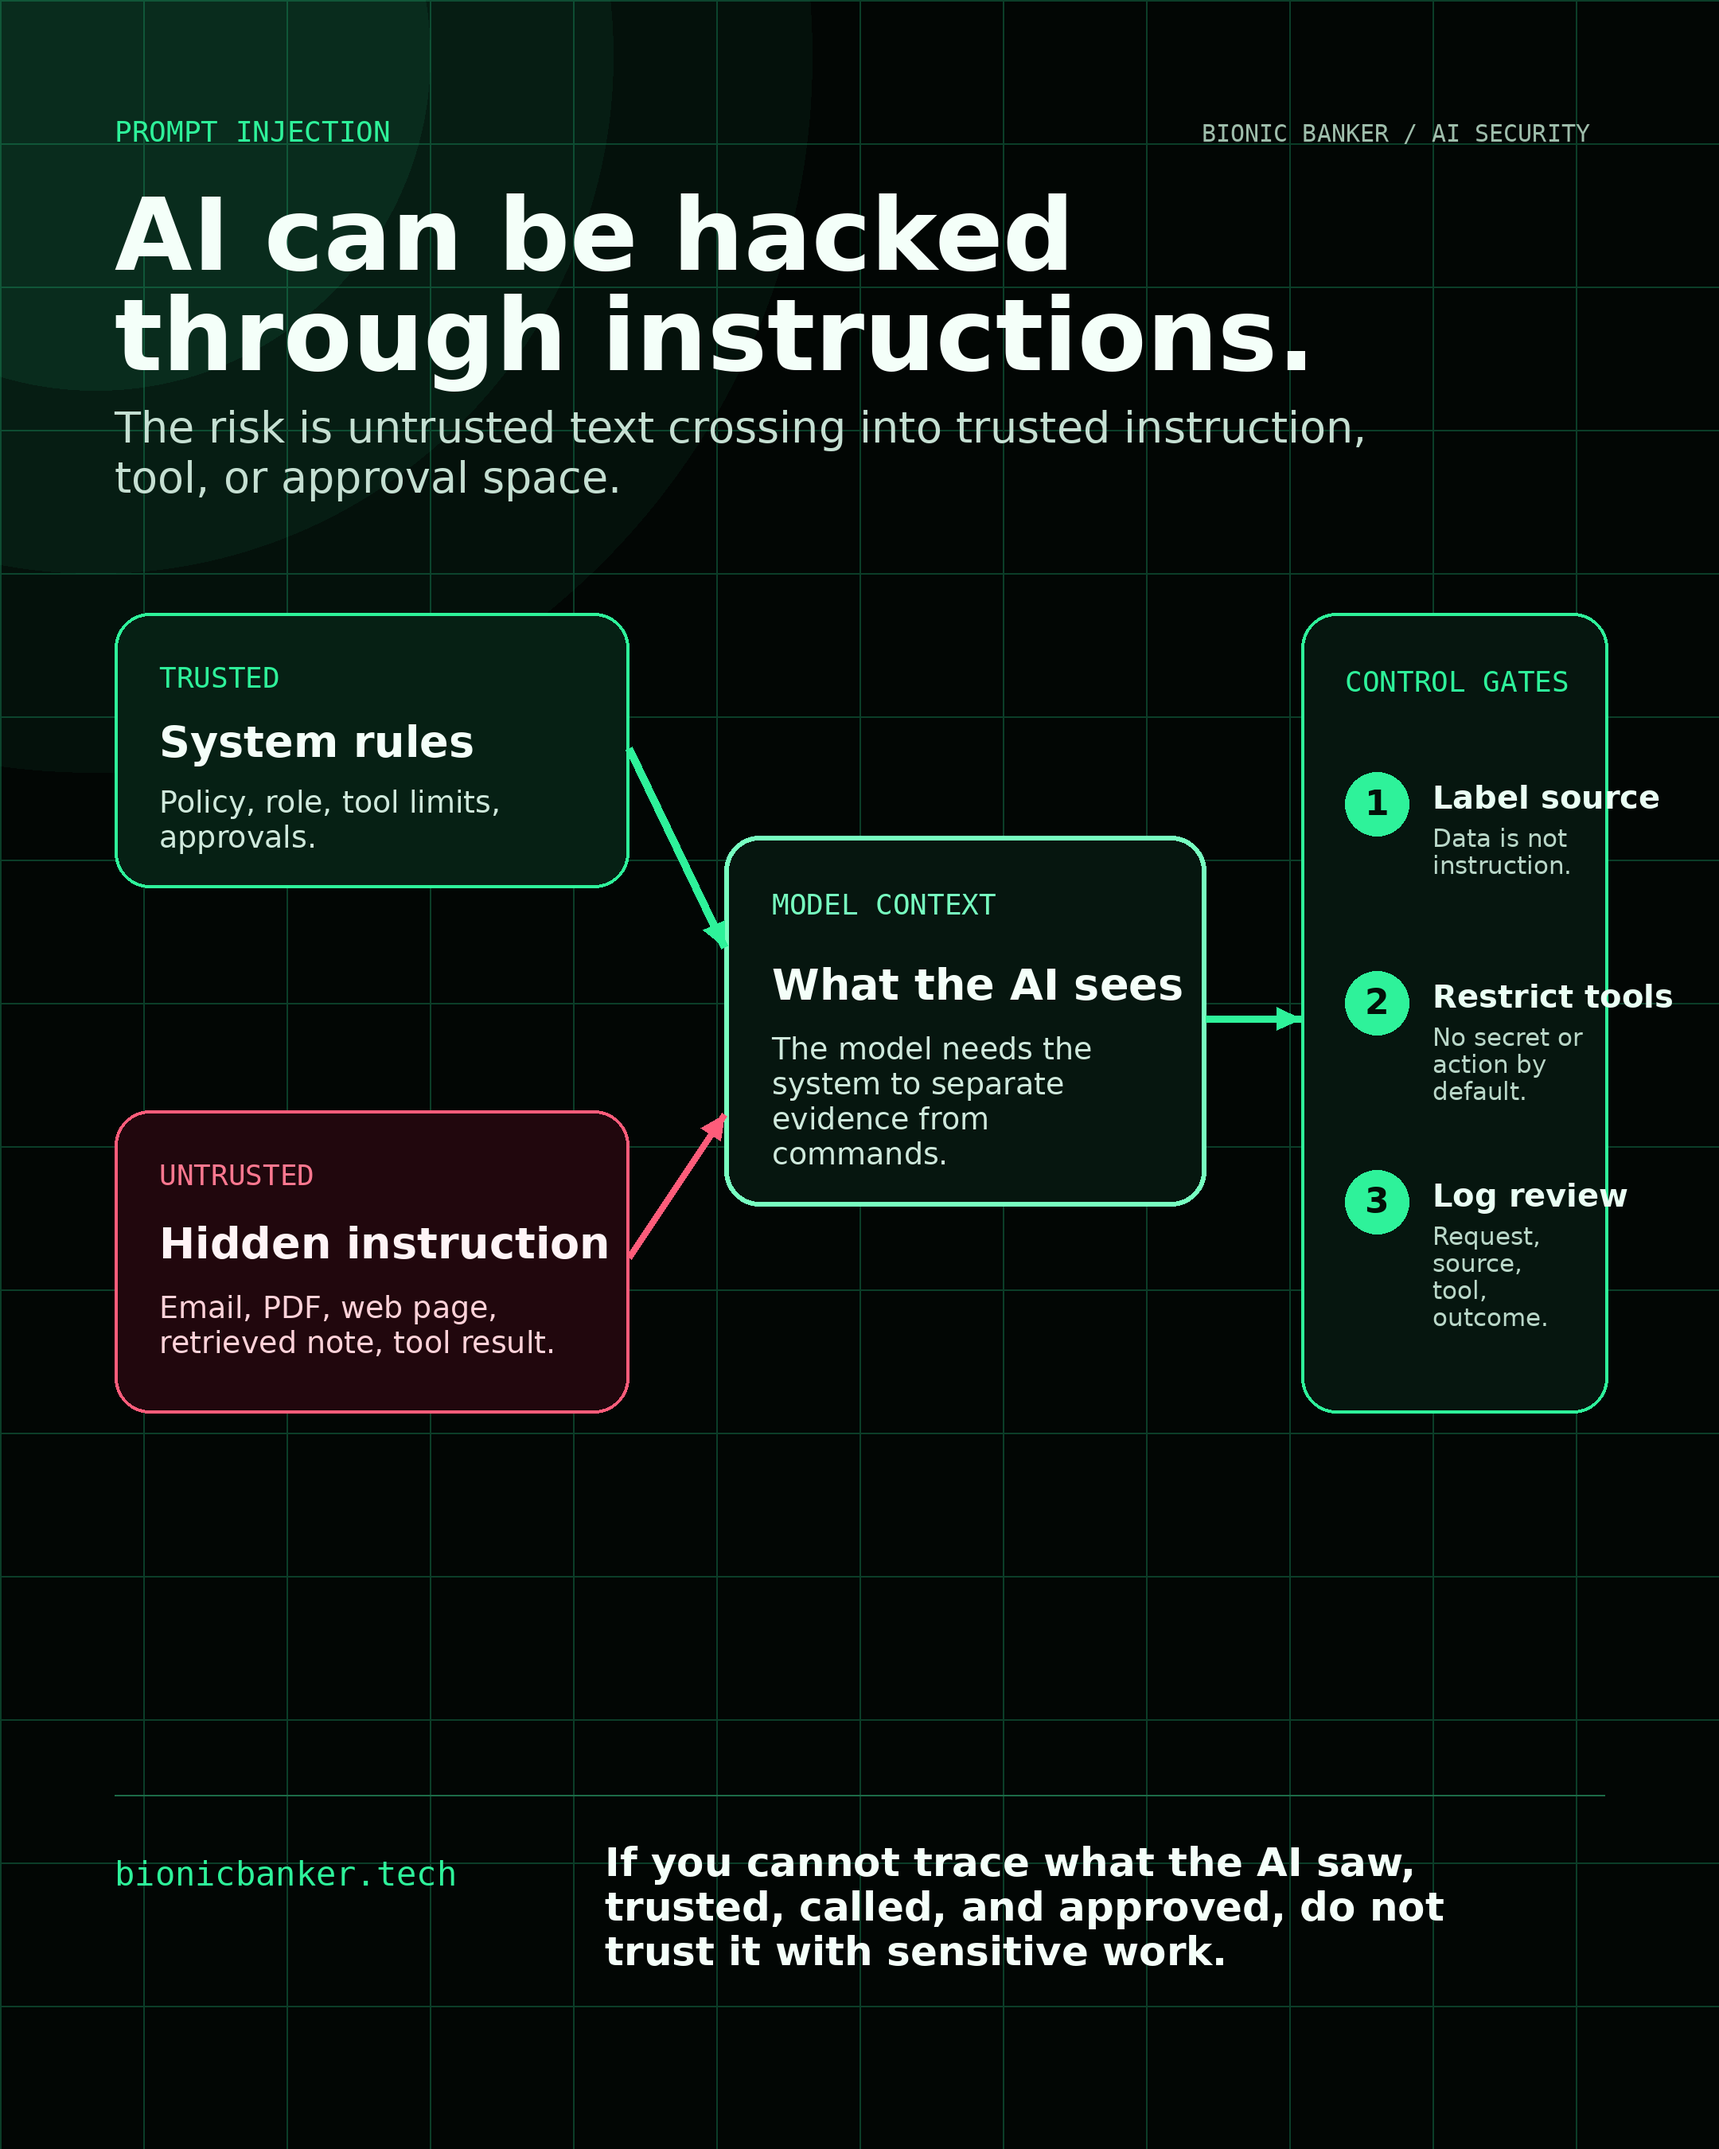
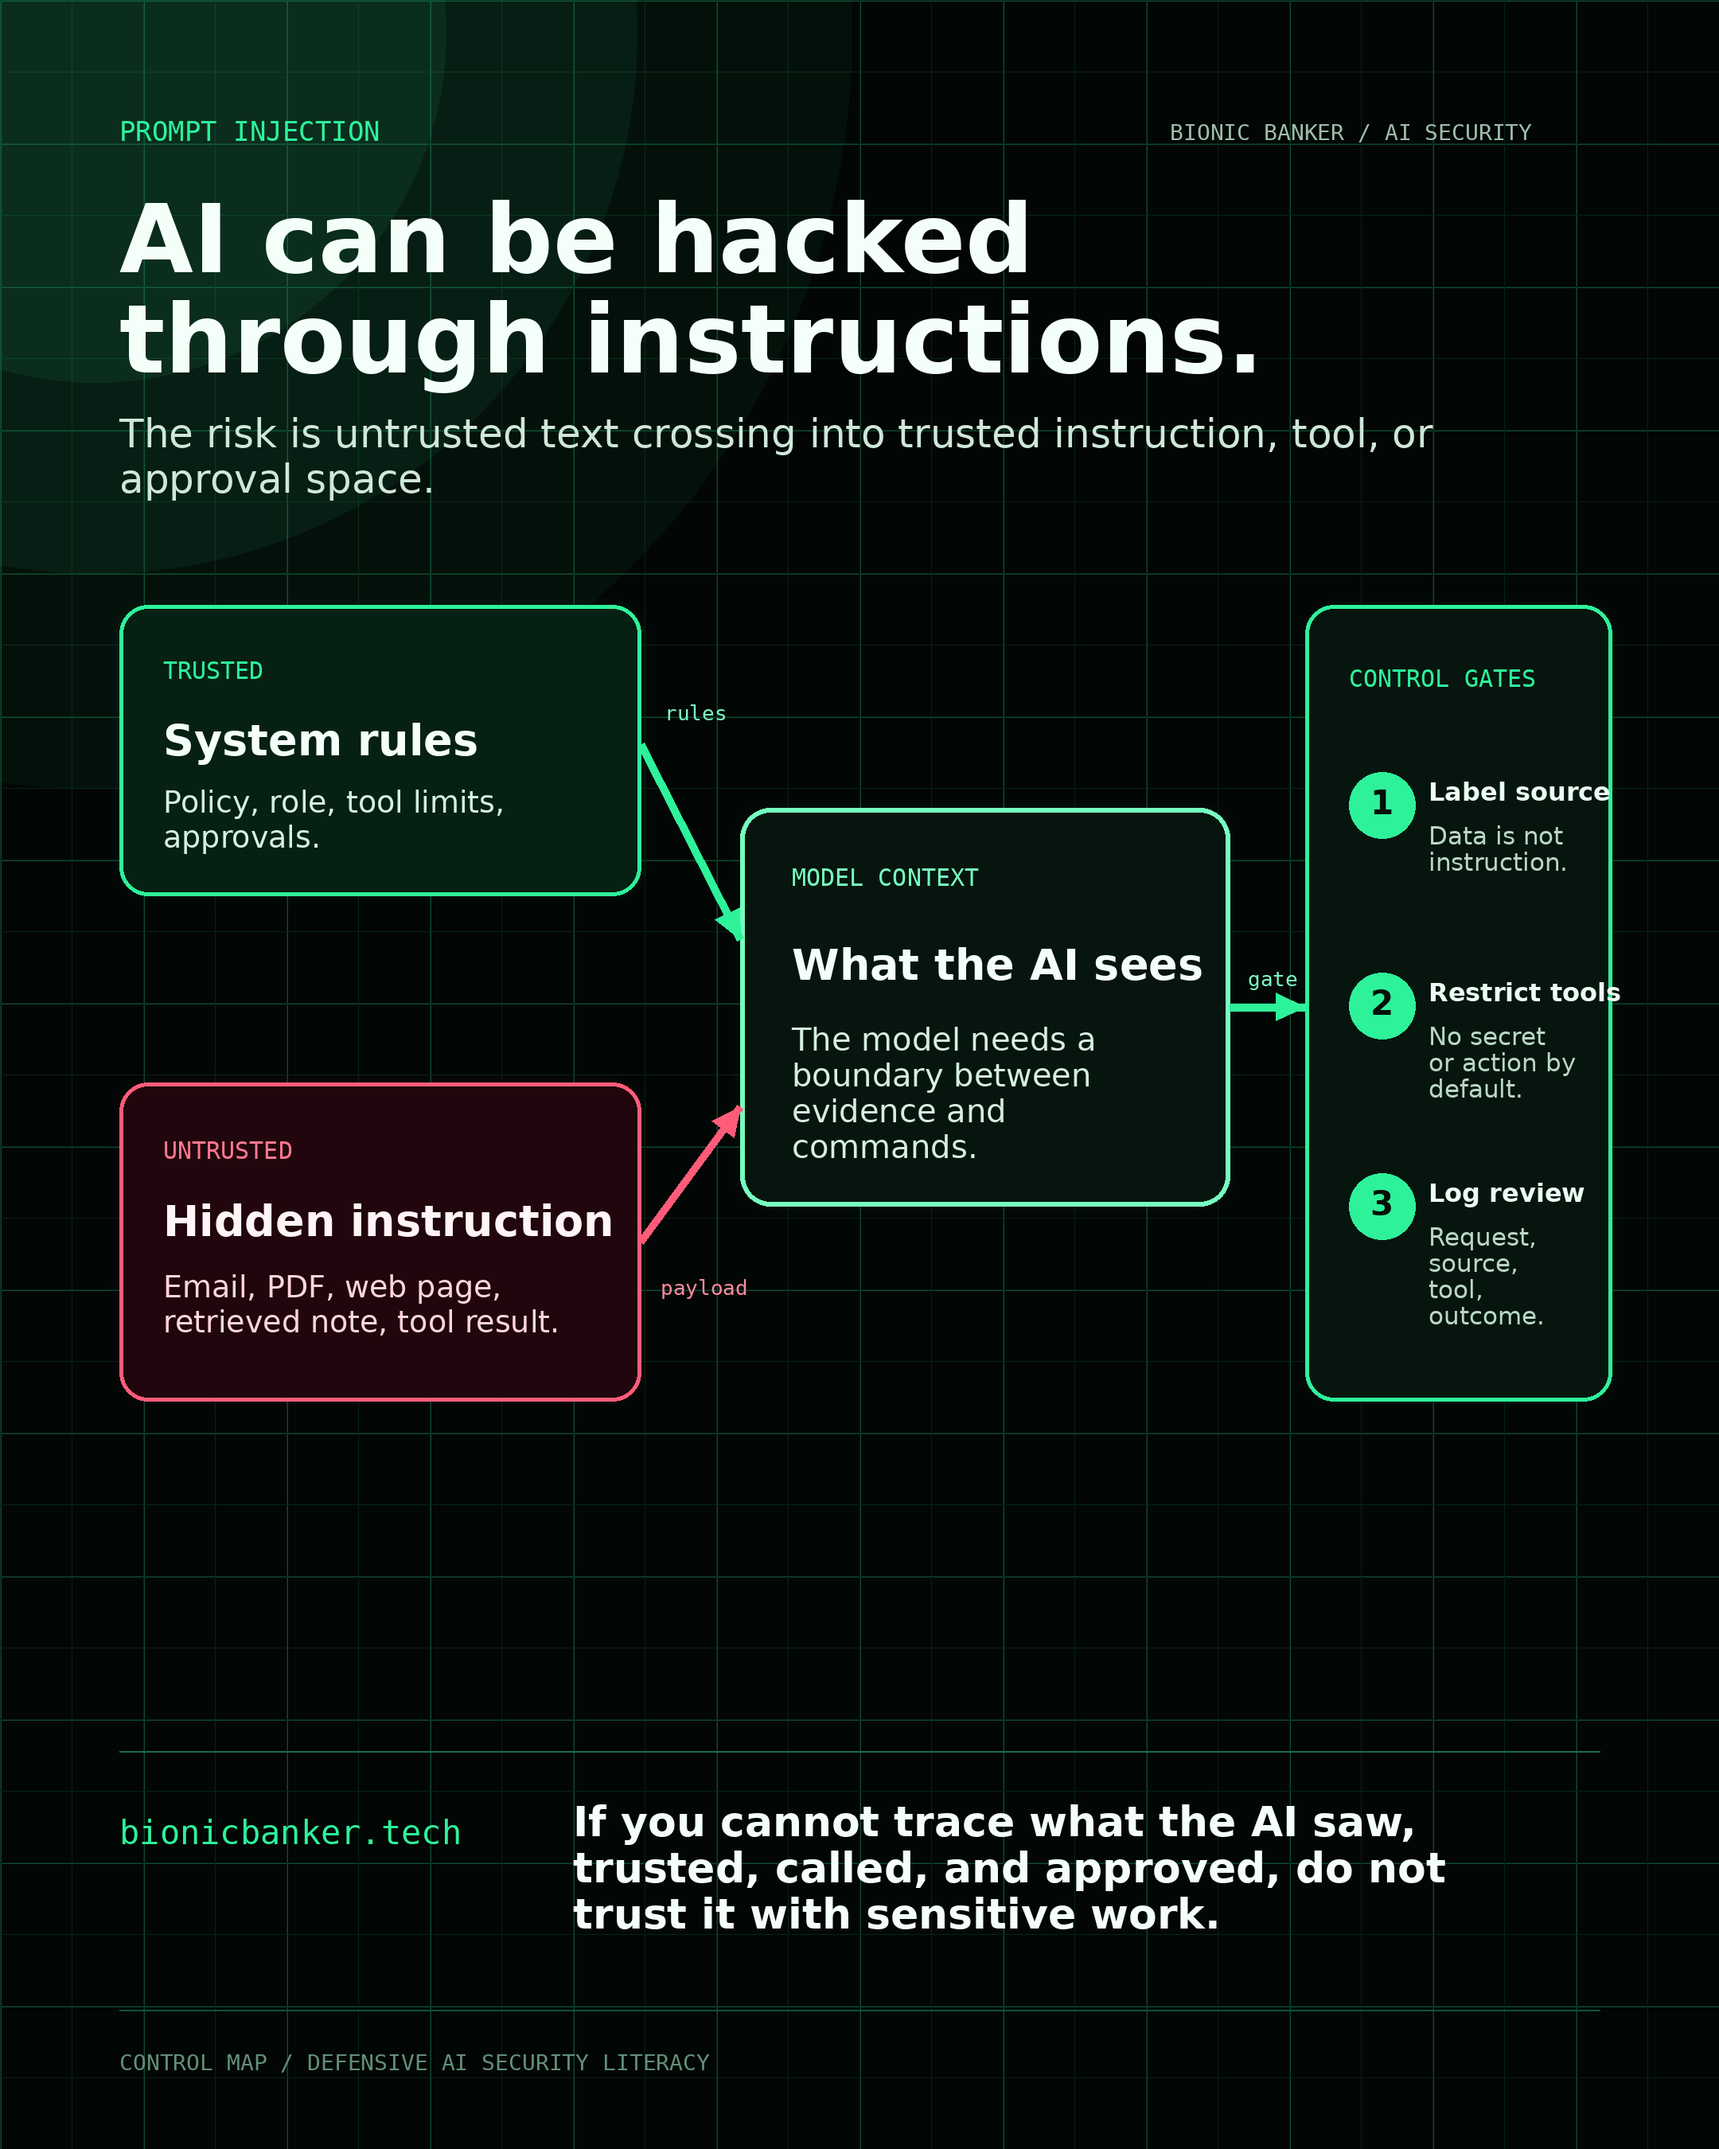
Improve prompt injection LinkedIn visual

diff --git a/social-assets/linkedin-ready/ai-prompt-injection-control-failure/render_single_slide.py b/social-assets/linkedin-ready/ai-prompt-injection-control-failure/render_single_slide.py
@@ -1,64 +1,184 @@
-from PIL import Image, ImageDraw, ImageFont
+from PIL import Image, ImageDraw, ImageFont, ImageFilter
 from pathlib import Path
-W,H=2160,2700
-img=Image.new('RGB',(W,H),'#020604')
-d=ImageDraw.Draw(img)
-def font(size,bold=False,mono=False):
-    p='/usr/share/fonts/truetype/dejavu/DejaVuSansMono.ttf' if mono else ('/usr/share/fonts/truetype/dejavu/DejaVuSans-Bold.ttf' if bold else '/usr/share/fonts/truetype/dejavu/DejaVuSans.ttf')
-    return ImageFont.truetype(p,size)
-F_mono=font(36,mono=True); F_brand=font(30,mono=True); F_title=font(126,True); F_sub=font(54); F_h=font(54,True); F_body=font(38); F_gate=font(40,True); F_take=font(50,True)
-for x in range(0,W,180): d.line((x,0,x,H), fill='#0b3d28', width=2)
-for y in range(0,H,180): d.line((0,y,W,y), fill='#0b3d28', width=2)
-for r,alpha in [(900,18),(650,22),(420,30)]:
-    overlay=Image.new('RGBA',(W,H),(0,0,0,0)); od=ImageDraw.Draw(overlay); od.ellipse((120-r,70-r,120+r,70+r), fill=(31,160,104,alpha)); img=Image.alpha_composite(img.convert('RGBA'),overlay).convert('RGB')
-d=ImageDraw.Draw(img)
-def wrap(text,f,maxw):
-    words=text.split(); lines=[]; cur=''
-    for w in words:
-        test=(cur+' '+w).strip()
-        if d.textbbox((0,0),test,font=f)[2] <= maxw: cur=test
-        else: lines.append(cur); cur=w
-    if cur: lines.append(cur)
-    return lines
-def tb(x,y,text,f,fill,maxw,leading=1.18):
-    for line in wrap(text,f,maxw):
-        d.text((x,y),line,font=f,fill=fill); y+=int(f.size*leading)
-    return y
-def rounded(xy,fill,outline,width=4,radius=44): d.rounded_rectangle(xy,radius=radius,fill=fill,outline=outline,width=width)
-# header
-d.text((144,144),'PROMPT INJECTION',font=F_mono,fill='#2ef29a')
-d.text((1510,150),'BIONIC BANKER / AI SECURITY',font=F_brand,fill='#9ebdab')
-y=222
-for line in ['AI can be hacked','through instructions.']:
-    d.text((144,y),line,font=F_title,fill='#f4fff9'); y+=126
-tb(144,505,'The risk is untrusted text crossing into trusted instruction, tool, or approval space.',F_sub,'#c5dfd2',1700,1.18)
-# boxes
-trusted=(144,770,790,1115); untrusted=(144,1395,790,1775); context=(910,1050,1515,1515); gates=(1635,770,2020,1775)
-rounded(trusted,'#062014','#2ef29a'); rounded(untrusted,'#21070d','#ff5c7a'); rounded(context,'#06160f','#77ffc0',6); rounded(gates,'#06160f','#2ef29a')
-d.text((200,830),'TRUSTED',font=F_mono,fill='#2ef29a'); d.text((200,900),'System rules',font=F_h,fill='#f4fff9'); tb(200,985,'Policy, role, tool limits, approvals.',F_body,'#cfe9dc',500)
-d.text((200,1455),'UNTRUSTED',font=F_mono,fill='#ff7890'); d.text((200,1530),'Hidden instruction',font=F_h,fill='#fff4f6'); tb(200,1620,'Email, PDF, web page, retrieved note, tool result.',F_body,'#ffd2d9',510)
-d.text((970,1115),'MODEL CONTEXT',font=F_mono,fill='#77ffc0'); d.text((970,1205),'What the AI sees',font=F_h,fill='#f4fff9'); tb(970,1295,'The model needs the system to separate evidence from commands.',F_body,'#cfe9dc',440)
-d.text((1690,835),'CONTROL GATES',font=F_mono,fill='#2ef29a')
-gates_text=[('1','Label source'),('2','Restrict tools'),('3','Log review')]
-y=970
-for n,t in gates_text:
-    d.ellipse((1690,y,1770,y+80),fill='#2ef29a'); d.text((1715,y+13),n,font=font(44,True),fill='#031008')
-    d.text((1800,y+8),t,font=F_gate,fill='#eafff4')
-    if n=='1': tb(1800,y+65,'Data is not instruction.',font(31),'#b9d7c8',190,1.1)
-    if n=='2': tb(1800,y+65,'No secret or action by default.',font(31),'#b9d7c8',190,1.1)
-    if n=='3': tb(1800,y+65,'Request, source, tool, outcome.',font(31),'#b9d7c8',190,1.1)
-    y+=250
-# arrows
 import math
-def arrow(x1,y1,x2,y2,color):
-    d.line((x1,y1,x2,y2),fill=color,width=9)
-    ang=math.atan2(y2-y1,x2-x1); L=34
-    d.polygon([(x2,y2),(x2-L*math.cos(ang-math.pi/7),y2-L*math.sin(ang-math.pi/7)),(x2-L*math.cos(ang+math.pi/7),y2-L*math.sin(ang+math.pi/7))],fill=color)
-arrow(790,940,910,1190,'#2ef29a'); arrow(790,1580,910,1400,'#ff5c7a'); arrow(1515,1280,1635,1280,'#2ef29a')
-# footer
-d.line((144,2255,2016,2255),fill='#1c6b47',width=2)
-d.text((144,2330),'bionicbanker.tech',font=font(42,mono=True),fill='#2ef29a')
-tb(760,2310,'If you cannot trace what the AI saw, trusted, called, and approved, do not trust it with sensitive work.',F_take,'#f4fff9',1180,1.13)
-out=Path('/home/hash/bionic-banker/social-assets/linkedin-ready/ai-prompt-injection-control-failure/prompt-injection-single-slide.png')
-img.save(out, quality=95)
+
+W, H = 2160, 2700
+BG = '#020604'
+GREEN = '#2ef29a'
+GREEN_SOFT = '#77ffc0'
+RED = '#ff5c7a'
+WHITE = '#f4fff9'
+MUTED = '#b9d7c8'
+GRID = '#0d4a31'
+
+img = Image.new('RGB', (W, H), BG)
+d = ImageDraw.Draw(img)
+
+
+def font(size, bold=False, mono=False):
+    if mono:
+        p = '/usr/share/fonts/truetype/dejavu/DejaVuSansMono.ttf'
+    else:
+        p = '/usr/share/fonts/truetype/dejavu/DejaVuSans-Bold.ttf' if bold else '/usr/share/fonts/truetype/dejavu/DejaVuSans.ttf'
+    return ImageFont.truetype(p, size)
+
+
+F_kicker = font(34, mono=True)
+F_brand = font(28, mono=True)
+F_title = font(120, True)
+F_sub = font(50)
+F_label = font(30, mono=True)
+F_card_title = font(54, True)
+F_card_body = font(38)
+F_context_title = font(54, True)
+F_context_body = font(40)
+F_gate_title = font(32, True)
+F_gate_body = font(31)
+F_take = font(52, True)
+F_url = font(42, mono=True)
+
+# Background grid: finer + low-contrast, with stronger safe margins.
+for x in range(0, W, 180):
+    d.line((x, 0, x, H), fill=GRID, width=2)
+for y in range(0, H, 180):
+    d.line((0, y, W, y), fill=GRID, width=2)
+for x in range(0, W, 90):
+    d.line((x, 0, x, H), fill='#062417', width=1)
+for y in range(0, H, 90):
+    d.line((0, y, W, y), fill='#062417', width=1)
+
+# Atmospheric glow + subtle arc shape.
+for r, alpha in [(950, 18), (680, 24), (440, 30)]:
+    overlay = Image.new('RGBA', (W, H), (0, 0, 0, 0))
+    od = ImageDraw.Draw(overlay)
+    od.ellipse((120-r, 40-r, 120+r, 40+r), fill=(31, 160, 104, alpha))
+    img = Image.alpha_composite(img.convert('RGBA'), overlay).convert('RGB')
+
+d = ImageDraw.Draw(img)
+
+
+def tw(text, f):
+    box = d.textbbox((0, 0), text, font=f)
+    return box[2] - box[0]
+
+
+def wrap(text, f, maxw):
+    words = text.split()
+    lines, cur = [], ''
+    for w in words:
+        test = (cur + ' ' + w).strip()
+        if tw(test, f) <= maxw:
+            cur = test
+        else:
+            if cur:
+                lines.append(cur)
+            cur = w
+    if cur:
+        lines.append(cur)
+    return lines
+
+
+def tb(x, y, text, f, fill, maxw, leading=1.18):
+    for line in wrap(text, f, maxw):
+        d.text((x, y), line, font=f, fill=fill)
+        y += int(f.size * leading)
+    return y
+
+
+def glow_round(xy, fill, outline, width=4, radius=44, glow=None):
+    if glow:
+        layer = Image.new('RGBA', (W, H), (0, 0, 0, 0))
+        ld = ImageDraw.Draw(layer)
+        ld.rounded_rectangle(xy, radius=radius, outline=glow, width=10)
+        blurred = layer.filter(ImageFilter.GaussianBlur(10))
+        global img, d
+        img = Image.alpha_composite(img.convert('RGBA'), blurred).convert('RGB')
+        d = ImageDraw.Draw(img)
+    d.rounded_rectangle(xy, radius=radius, fill=fill, outline=outline, width=width)
+
+
+def arrow(x1, y1, x2, y2, color, width=10):
+    d.line((x1, y1, x2, y2), fill=color, width=width)
+    ang = math.atan2(y2 - y1, x2 - x1)
+    L = 40
+    d.polygon([
+        (x2, y2),
+        (x2 - L * math.cos(ang - math.pi / 7), y2 - L * math.sin(ang - math.pi / 7)),
+        (x2 - L * math.cos(ang + math.pi / 7), y2 - L * math.sin(ang + math.pi / 7)),
+    ], fill=color)
+
+
+# Header
+left, right = 150, 2010
+d.text((left, 145), 'PROMPT INJECTION', font=F_kicker, fill=GREEN)
+d.text((1470, 150), 'BIONIC BANKER / AI SECURITY', font=F_brand, fill='#9ebdab')
+
+# Title block: slightly tighter, more intentional, more breathing above diagram.
+y = 230
+for line in ['AI can be hacked', 'through instructions.']:
+    d.text((left, y), line, font=F_title, fill=WHITE)
+    y += 126
+
+tb(left, 515, 'The risk is untrusted text crossing into trusted instruction, tool, or approval space.', F_sub, '#cfe7d9', 1660, 1.15)
+
+# Diagram layout: bigger cards, cleaner alignment, no cramped gate text.
+trusted = (150, 760, 805, 1125)
+untrusted = (150, 1360, 805, 1760)
+context = (930, 1015, 1545, 1515)
+gates = (1640, 760, 2025, 1760)
+
+glow_round(trusted, '#062014', GREEN, 5, 36, (46, 242, 154, 72))
+glow_round(untrusted, '#21070d', RED, 5, 36, (255, 92, 122, 58))
+glow_round(context, '#06160f', GREEN_SOFT, 6, 38, (119, 255, 192, 64))
+glow_round(gates, '#06160f', GREEN, 5, 36, (46, 242, 154, 54))
+
+# Card text positions improved: labels up, body has bigger line length.
+d.text((205, 825), 'TRUSTED', font=F_label, fill=GREEN)
+d.text((205, 898), 'System rules', font=F_card_title, fill=WHITE)
+tb(205, 985, 'Policy, role, tool limits, approvals.', F_card_body, '#d5efe2', 520, 1.16)
+
+d.text((205, 1428), 'UNTRUSTED', font=F_label, fill='#ff7890')
+d.text((205, 1502), 'Hidden instruction', font=F_card_title, fill='#fff4f6')
+tb(205, 1594, 'Email, PDF, web page, retrieved note, tool result.', F_card_body, '#ffd6dd', 520, 1.16)
+
+d.text((995, 1085), 'MODEL CONTEXT', font=F_label, fill=GREEN_SOFT)
+d.text((995, 1180), 'What the AI sees', font=F_context_title, fill=WHITE)
+tb(995, 1282, 'The model needs a boundary between evidence and commands.', F_context_body, '#d5efe2', 455, 1.13)
+
+# Control gates: more vertical rhythm; no tiny words jammed against border.
+d.text((1695, 835), 'CONTROL GATES', font=F_label, fill=GREEN)
+gates_text = [
+    ('1', 'Label source', 'Data is not instruction.'),
+    ('2', 'Restrict tools', 'No secret or action by default.'),
+    ('3', 'Log review', 'Request, source, tool, outcome.'),
+]
+y = 970
+for n, title, body in gates_text:
+    d.ellipse((1695, y, 1778, y + 83), fill=GREEN)
+    d.text((1722, y + 14), n, font=font(42, True), fill='#031008')
+    d.text((1795, y + 6), title, font=F_gate_title, fill='#eafff4')
+    tb(1795, y + 62, body, F_gate_body, MUTED, 185, 1.08)
+    y += 252
+
+# Arrows drawn after cards for crisp heads, aligned to centers.
+arrow(805, 935, 930, 1180, GREEN)
+arrow(805, 1560, 930, 1390, RED)
+arrow(1545, 1265, 1640, 1265, GREEN)
+
+# Add subtle labels near arrows so the concept is readable at phone size.
+d.text((835, 880), 'rules', font=font(26, mono=True), fill='#7cfac4')
+d.text((830, 1602), 'payload', font=font(26, mono=True), fill='#ff8aa0')
+d.text((1568, 1214), 'gate', font=font(26, mono=True), fill='#7cfac4')
+
+# Footer: move up and widen text; remove huge dead lower third.
+d.line((left, 2200, right, 2200), fill='#1c6b47', width=2)
+d.text((left, 2278), 'bionicbanker.tech', font=F_url, fill=GREEN)
+tb(720, 2258, 'If you cannot trace what the AI saw, trusted, called, and approved, do not trust it with sensitive work.', F_take, WHITE, 1220, 1.12)
+
+# Thin bottom rule to make crop feel intentional.
+d.line((left, 2525, right, 2525), fill='#0f5135', width=2)
+d.text((left, 2575), 'CONTROL MAP / DEFENSIVE AI SECURITY LITERACY', font=font(28, mono=True), fill='#628f79')
+
+out = Path('/home/hash/bionic-banker/social-assets/linkedin-ready/ai-prompt-injection-control-failure/prompt-injection-single-slide.png')
+img.save(out, quality=98, subsampling=0)
 print(out, img.size)
